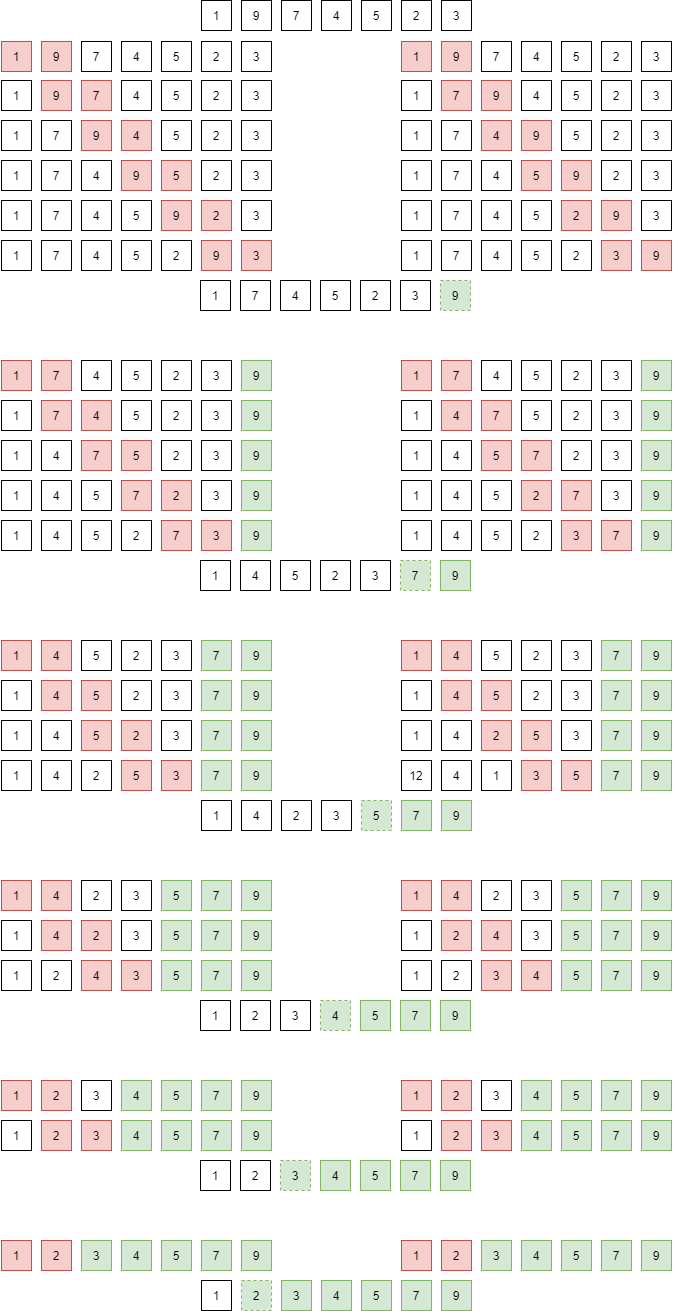
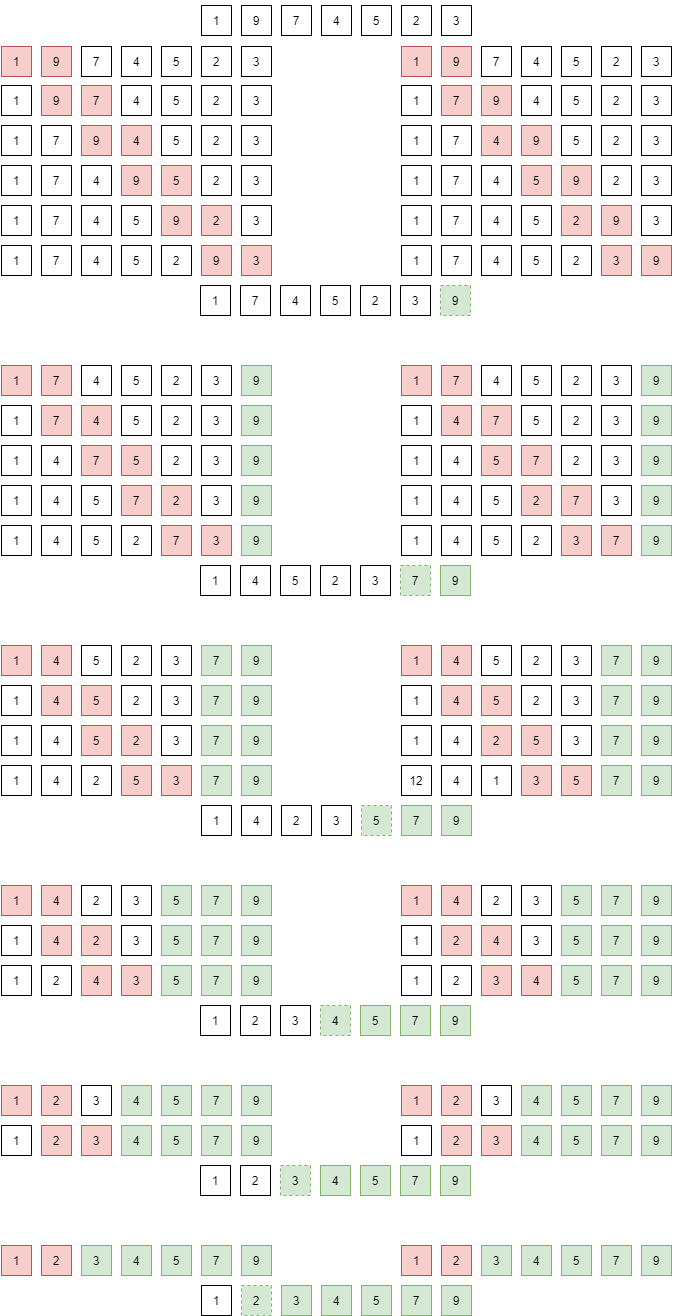
add algorithm bubble sort

diff --git a/algorithm.html b/algorithm.html
@@ -1,6 +1,6 @@
 ---
 layout: default
-menu_index: 10
+menu_index: 9
 ---
 
 <div class="box">
@@ -21,63 +21,63 @@ menu_index: 10
 以排序[1, 9, 7, 4, 5, 2, 3]举例说明：</pre>
     </div>
     <div class="plt_img_bg">
-        <img src="/Resource/Images/algorithm/sort_line_0.png" width="100%" />
+        <img src="/Resource/Images/algorithm/sort_line_0.png" width="50%" />
     </div>
 
     <div class="shadow_box">
         <pre>第一个数和第二个数比较（即1和9比较），因为1小于9，已经符合左小右大的顺序，所以不做处理</pre>
     </div>
     <div class="plt_img_bg">
-        <img src="/Resource/Images/algorithm/sort_line_1.png" width="100%" />
+        <img src="/Resource/Images/algorithm/sort_line_1.png" width="50%" />
     </div>
 
     <div class="shadow_box">
         <pre>第二个数和第三个数比较（即9和7比较），因为9大于7，所以需要交换9和7的位置</pre>
     </div>
     <div class="plt_img_bg">
-        <img src="/Resource/Images/algorithm/sort_line_2.png" width="100%" />
+        <img src="/Resource/Images/algorithm/sort_line_2.png" width="50%" />
     </div>
 
     <div class="shadow_box">
         <pre>第三个数和第四个数比较（即9和4比较），因为9大于4，所以需要交换9和4的位置</pre>
     </div>
     <div class="plt_img_bg">
-        <img src="/Resource/Images/algorithm/sort_line_3.png" width="100%" />
+        <img src="/Resource/Images/algorithm/sort_line_3.png" width="50%" />
     </div>
 
     <div class="shadow_box">
         <pre>第四个数和第五个数比较（即9和5比较），因为9大于5，所以需要交换9和5的位置</pre>
     </div>
     <div class="plt_img_bg">
-        <img src="/Resource/Images/algorithm/sort_line_4.png" width="100%" />
+        <img src="/Resource/Images/algorithm/sort_line_4.png" width="50%" />
     </div>
 
     <div class="shadow_box">
         <pre>第五个数和第六个数比较（即9和2比较），因为9大于2，所以需要交换9和2的位置</pre>
     </div>
     <div class="plt_img_bg">
-        <img src="/Resource/Images/algorithm/sort_line_5.png" width="100%" />
+        <img src="/Resource/Images/algorithm/sort_line_5.png" width="50%" />
     </div>
 
     <div class="shadow_box">
         <pre>第六个数和第七个数比较（即9和3比较），因为9大于3，所以需要交换9和3的位置</pre>
     </div>
     <div class="plt_img_bg">
-        <img src="/Resource/Images/algorithm/sort_line_6.png" width="100%" />
+        <img src="/Resource/Images/algorithm/sort_line_6.png" width="50%" />
     </div>
 
     <div class="shadow_box">
         <pre>至此，第一趟比较完，数字“9”就像一个气泡一样一步步浮出了水面，从一堆数中脱颖而出，它是最大的数，已经放到了最右侧的位置，它已经放到了正确的位置，下边就不需要再处理它了。</pre>
     </div>
     <div class="plt_img_bg">
-        <img src="/Resource/Images/algorithm/sort_line_7.png" width="100%" />
+        <img src="/Resource/Images/algorithm/sort_line_7.png" width="50%" />
     </div>
 
     <div class="shadow_box">
         <pre>第二趟需要把第二大的数放到右数第二个位置上，后面每一趟需要把剩余数中最大的数排到剩余位置的最右侧，总的图解如下：</pre>
     </div>
     <div class="plt_img_bg">
-        <img src="/Resource/Images/algorithm/sort_line_8.png" width="100%" />
+        <img src="/Resource/Images/algorithm/sort_line_8.png" width="50%" />
     </div>
     
     <div class="shadow_box">Python代码：</div>

diff --git a/_includes/menu.html b/_includes/menu.html
@@ -9,7 +9,7 @@
     <li><a href="/machine_learning"{% if page.menu_index == 6 %}class="selected"{% endif %}>机器学习</a></li>
     <li><a href="/git"             {% if page.menu_index == 7 %}class="selected"{% endif %}>Git</a></li>
     <li><a href="/c_plus_plus"     {% if page.menu_index == 8 %}class="selected"{% endif %}>C++</a></li>
-    <li><a href="/algorithm"       {% if page.menu_index == 9 %}class="selected"{% endif %}>算法</a></li>
+    <li><a href="/algorithm"       {% if page.menu_index == 9 %}class="selected"{% endif %}>算法详解</a></li>
     <li><a href="/design_pattern"  {% if page.menu_index == 10 %}class="selected"{% endif %}>设计模式</a></li>
     <li><a href="/mv"              {% if page.menu_index == 11 %}class="selected"{% endif %}>MV</a></li>
     <li><a href="/movie"           {% if page.menu_index == 12 %}class="selected"{% endif %}>电影片段</a></li>
